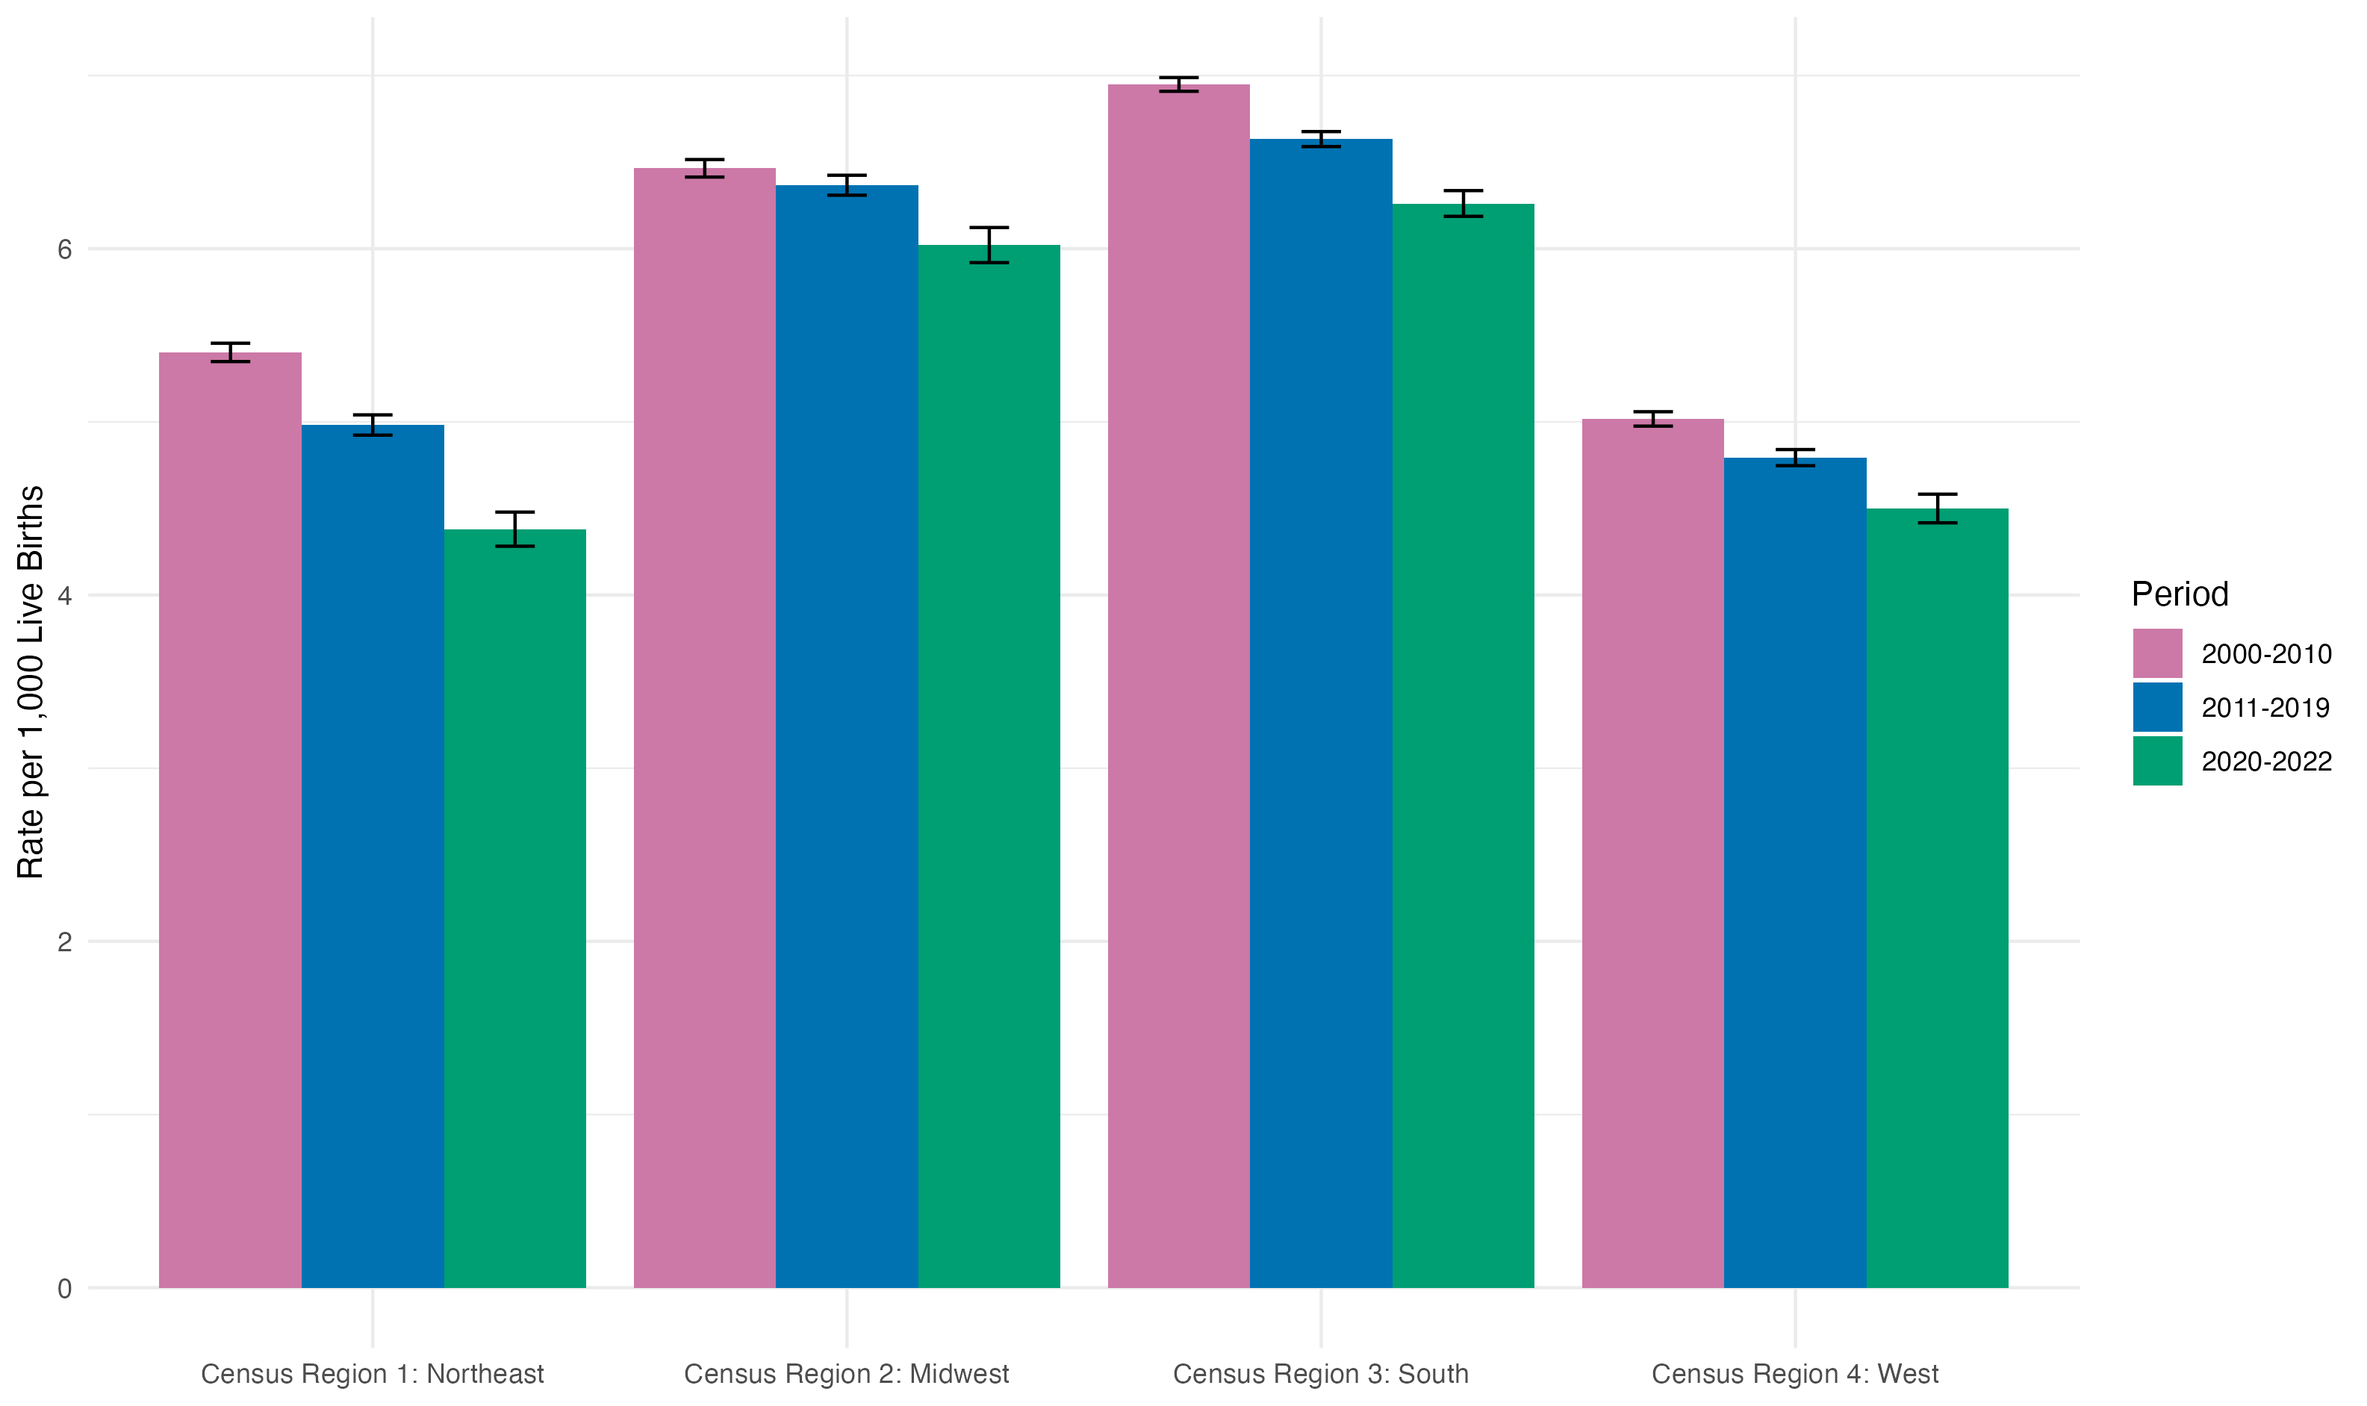
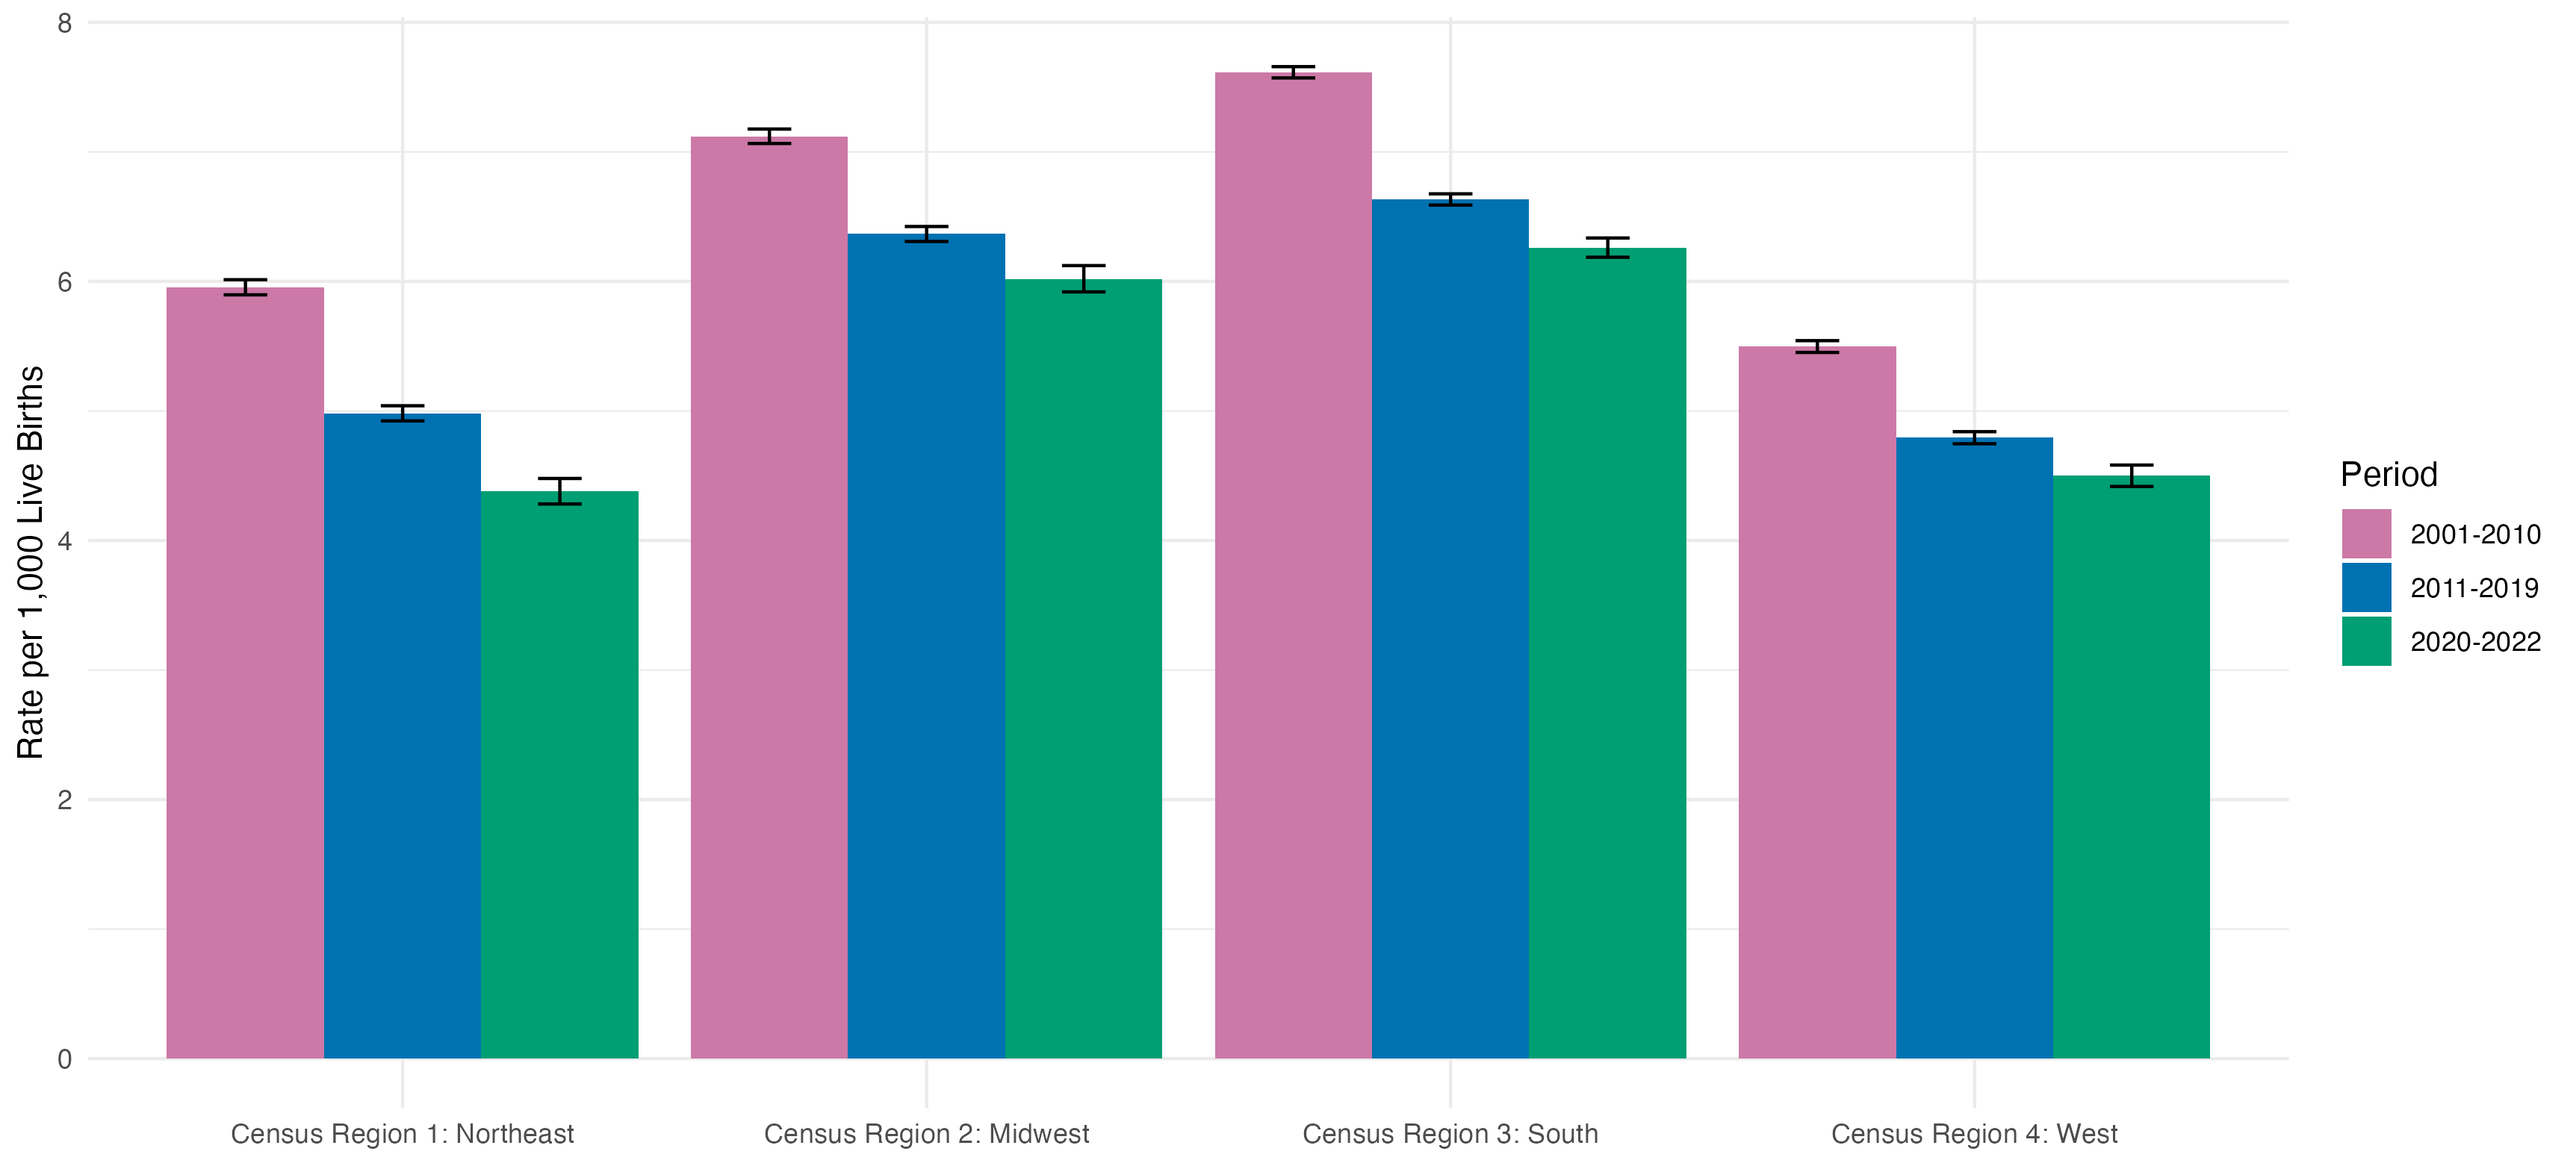
Fix first decade range (2001-2010)

diff --git a/data/README.md b/data/README.md
@@ -26,7 +26,7 @@ By age:
 - 2023 (Jan to June): https://wonder.cdc.gov/controller/saved/D192/D367F073
 
 By racial/ethnic group: 
-- 2000-2002: https://wonder.cdc.gov/controller/saved/D10/D374F057
+- 2001-2002: https://wonder.cdc.gov/controller/saved/D10/D394F959
 - 2003-2004: https://wonder.cdc.gov/controller/saved/D27/D374F055
 - 2005-2006: https://wonder.cdc.gov/controller/saved/D27/D367F064 
 - 2005-2010: https://wonder.cdc.gov/controller/saved/D66/D374F142
@@ -41,7 +41,7 @@ By state:
 - 2023 (Jan to June): https://wonder.cdc.gov/controller/saved/D192/D367F071
 
 By age, year, census:
-- 2000-2002: https://wonder.cdc.gov/controller/saved/D10/D349F472
+- 2001-2002: https://wonder.cdc.gov/controller/saved/D10/D394F957
 - 2003-2006: https://wonder.cdc.gov/controller/saved/D27/D349F471
 - 2007-2022: https://wonder.cdc.gov/controller/saved/D66/D367F061
 - 2023 (Jan to June): https://wonder.cdc.gov/controller/saved/D192/D367F074
@@ -71,8 +71,14 @@ By year:
 We also examine maternal mortality excluding the "other maternal/pregnancy-related causes" categories (ICD-10 codes O26.8, O95 & O99) and specifically trends in those categories:
 
 - Maternal mortality excl. other (2000-2002): https://wonder.cdc.gov/controller/saved/D77/D374F171
+- Maternal mortality excl. other - age adj (2000-2002): 
+https://wonder.cdc.gov/controller/saved/D77/D394F919
 - Maternal mortality excl. other (2003-2017): https://wonder.cdc.gov/controller/saved/D77/D367F101
+- Maternal mortality excl. other - age adj (2003-2017):
+https://wonder.cdc.gov/controller/saved/D77/D394F921
 - Maternal mortality excl. other (2018-2022): https://wonder.cdc.gov/controller/saved/D176/D367F102
+- Maternal mortality excl. other - age adj (2018-2022):
+https://wonder.cdc.gov/controller/saved/D176/D394F922
 - Maternal mortality excl. other (Jan-June 2023): https://wonder.cdc.gov/controller/saved/D176/D367F104
 
 - O26.8, O95 & O99 (2000-2002): https://wonder.cdc.gov/controller/saved/D77/D374F172
